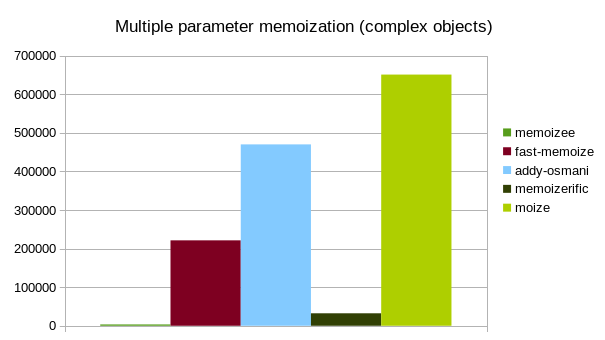
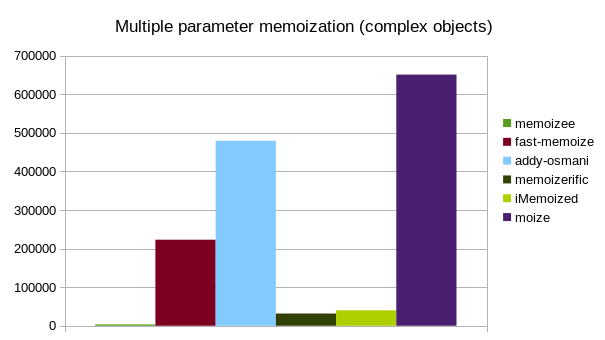
Updates... * Benchmarks to include iMemoized

Changed region(s): [[0.3273, 0.2059, 0.7736, 0.9706], [0.8331, 0.3529, 0.9818, 0.6765], [0.238, 0.7059, 0.2975, 0.9706]]

diff --git a/docs/quicksearch.html b/docs/quicksearch.html
@@ -7,7 +7,7 @@
     <script src="scripts/fulltext-search.js"></script>
 
     <script type="text/x-docstrap-searchdb">
-    {"Map.js.html":{"id":"Map.js.html","title":"Source: Map.js","body":" moize Modules moize Source: Map.js // @flow // utils import { getIndexOf, isKeyLastItem, splice } from './utils'; const HAS_MAP_SUPPORT = typeof Map === 'function'; /** * @private * * @class MapLike * @classdesc class that mimics enough of the Map infrastructure to serve as polyfill for the cache */ class MapLike { constructor() { this.list = []; this.lastItem = undefined; this.size = 0; return this; } lastItem: ?Object; list: Array&lt;any&gt;; size: number; /** * @function delete * @memberOf MapLike * @instance * * @description * remove the key from the map * * @param {*} key key to delete from the map */ delete(key: any) { if (isKeyLastItem(this.lastItem, key)) { this.lastItem = undefined; } const index: number = getIndexOf(this, key); if (index !== -1) { this.size--; splice(this.list, index); } } /** * @function get * @memberOf MapLike * @instance * * @description * get the value for the given key * * @param {*} key key to get the value for * @returns {*} value at the key location */ get(key: any) { if (isKeyLastItem(this.lastItem, key)) { // $FlowIgnore: this.lastItem.value exists return this.lastItem.value; } const index: number = getIndexOf(this, key); if (index !== -1) { this.lastItem = this.list[index]; return this.list[index].value; } return undefined; } /** * @function has * @memberOf MapLike * @instance * * @description * does the map have the key provided * * @param {*} key key to test for in the map * @returns {boolean} does the map have the key */ has(key: any) { if (isKeyLastItem(this.lastItem, key)) { return true; } const index = getIndexOf(this, key); if (index !== -1) { this.lastItem = this.list[index]; return true; } return false; } /** * @function set * @memberOf MapLike * @instance * * @description * set the value at the key location, or add a new item with that key value * * @param {*} key key to assign value of * @param {*} value value to store in the map at key * @returns {MapLike} the map object */ set(key: any, value: any) { if (isKeyLastItem(this.lastItem, key)) { // $FlowIgnore: this.lastItem.value exists this.lastItem.value = value; return this; } const index: number = getIndexOf(this, key); if (index !== -1) { this.lastItem = this.list[index]; this.list[index].value = value; return this; } this.lastItem = { key, value }; this.list.push(this.lastItem); this.size++; return this; } } export {MapLike}; export default HAS_MAP_SUPPORT ? Map : MapLike; × Search results Close Documentation generated by JSDoc 3.4.3 using the DocStrap template. "},"index.js.html":{"id":"index.js.html","title":"Source: index.js","body":" moize Modules moize Source: index.js // @flow // external dependencies import Map from './Map'; // utils import { INFINITY, getCacheKey, getFunctionWithCacheAdded, serializeArguments, setNewCachedValue, setUsageOrder } from './utils'; type Options = { cache?: Object, isPromise?: boolean, maxAge?: number, maxSize?: number, serializer?: Function }; /** * @module moize */ /** * @function moize * * @description * store cached values returned from calling method with arguments to avoid reprocessing data from same arguments * * @example * import moize from 'moize'; * * // standard implementation * const fn = (foo, bar) =&gt; { * return `${foo} ${bar}`; * }; * const memoizedFn = moize(fn); * * // implementation with options * const fn = async (id) =&gt; { * return get(`http://foo.com/${id}`); * }; * const memoizedFn = moize(fn, { * isPromise: true, * maxSize: 5 * }); * * @param {function} fn method to memoize * @param {Options} [options={}] options to customize how the caching is handled * @param {Map} [options.cache=new Map()] caching mechanism to use for method * @param {boolean} [options.isPromise=false] is the function return expected to be a promise to resolve * @param {number} [options.maxAge=Infinity] the maximum age the value should persist in cache * @param {number} [options.maxSize=Infinity] the maximum size of the cache to retain * @param {function} [options.serializer=serializeArguments] method to serialize arguments with for cache storage * @returns {Function} higher-order function which either returns from cache or newly-computed value */ const moize = function(fn: Function, options: Options = {}): any { const { cache = new Map(), isPromise = false, maxAge = INFINITY, maxSize = INFINITY, serializer = serializeArguments } = options; const isMaxAgeFinite: boolean = maxAge !== INFINITY; const isMaxSizeFinite: boolean = maxSize !== INFINITY; let key: string = ''; /** * @private * * @function memoizedFunction * * @description * higher-order function which either returns from cache or stores newly-computed value and returns it * * @param {Array&lt;*&gt;} args arguments passed to method * @returns {any} value resulting from executing of fn passed to memoize */ const memoizedFunction = function(...args: Array&lt;any&gt;): any { key = getCacheKey(args, serializer); if (isMaxSizeFinite) { setUsageOrder(memoizedFunction, key, maxSize); } if (memoizedFunction.cache.has(key)) { return memoizedFunction.cache.get(key); } return setNewCachedValue(memoizedFunction, key, fn.apply(this, args), isPromise, isMaxAgeFinite, maxAge); }; return getFunctionWithCacheAdded(memoizedFunction, cache); }; export default moize; × Search results Close Documentation generated by JSDoc 3.4.3 using the DocStrap template. "},"modules.list.html":{"id":"modules.list.html","title":"Modules","body":" moize Modules moize Modules × Search results Close Documentation generated by JSDoc 3.4.3 using the DocStrap template. "},"index.html":{"id":"index.html","title":"Index","body":" moize Modules moize moize 1.1.2 moize moize strives to be the fastest possible implementation of memoization in JavaScript that supports all arguments passed, while offering flexibility in implementation. It has no dependencies, and is less than 2kb when minified and gzipped. Table of contents Installation Usage Advanced usage Direct cache manipulation Benchmarks Browser support Development Installation $ npm i moize --saveUsage import moize from 'moize'; const method = (a, b) =&gt; { return a + b; }; const memoized = moize(method); memoized(2, 4); // 6 memoized(2, 4); // 6, pulled from cacheAll parameter types are supported, including circular objects, functions, etc. You can even memoize functional React components based on their props + context combination! Advanced usage moize also accepts an object of options as the second parameter. The full shape of these options: { cache: Map|Object, // custom cache implementation isPromise: boolean, // is the result a promise maxAge: number, // amount of time in milliseconds before the cache will expire maxSize: number, // maximum size of cache for this method serializer: Function // method to serialize the arguments to build a unique cache key }cache defaults to new Map() The default cache implementation is highly performant, however if you would like then you can pass in a custom cache implementation. The only requirements for the cache implementation is that it matches the relevant Map API methods: delete get has set If you want to have direct cache management using moize, the following methods must also be provided: clear const cache = { delete(key) { delete this[key]; }, get(key) { return this[key]; }, has(key) { return this.hasOwnProperty[key]; }, set(key, value) { this[key] = value; return this; } }; const fn = (item) =&gt; { return item; }; const memoized = moize(fn, { cache });isPromise defaults to false Is the computed value in the function a Promise, and should we cache the resolved value from that Promise. const fn = async (item) =&gt; { return await item; }; const memoized = moize(fn, { isPromise: true });maxAge defaults to Infinity The maximum amount of time in milliseconds that you want a computed value to be stored in cache for this method. const fn = (item) =&gt; { return item; }; const memoized = moize(fn, { maxAge: 1000 * 60 * 5 // five minutes });maxSize defaults to Infinity The maximum size of the cache you want stored in cache for this method. Clearance of the cache once the maxSize is reached is on a Least Recently Used basis. const fn = (item) =&gt; { return item; }; const memoized = moize(fn, { maxSize: 5 });serializer defaults to serializeArguments in utils.js The default seralizer method is highly performant, and covers a number of edge cases (recursive objects, for example), however if you want to provide a custom one you may. The value returned from the function must be a valid value of keys for a Map. const serializer = (args) =&gt; { return JSON.stringify(args[0]); }; const memoized = moize(fn, { serializer });Direct cache manipulation There are a couple of methods provided on the memoized function which allow for programmatic manipulation of the cache: clear() This will clear all values in the cache, resetting it to a default state. const memoized = moize((item) =&gt; { return item; }); memoized.clear();delete(key) This will delete the provided key from cache. const memoized = moize((item) =&gt; { return item; }); memoized('foo'); memoized.delete('foo');Benchmarks All values provided are the number of operations per second (ops/sec) calculated by the Benchmark suite. Note that underscore, lodash, and ramda do not support mulitple-parameter memoization, so they are not included in those benchmarks. underscore lodash ramda memoizee fast-memoize addy-osmani memoizerific moize 6,173,721 6,964,896 251,801 4,140,779 5,950,556 1,786,883 920,642 10,105,377 memoizee fast-memoize addy-osmani memoizerific moize 3,121,912 247,767 985,573 742,577 3,291,722 memoizee fast-memoize addy-osmani memoizerific moize 3,363 221,302 470,113 32,307 650,998 Browser support Chrome (all versions) Firefox (all versions) Opera 15+ Edge (all versions) IE 9+ Safari 6+ Theoretically the support should go back even farther, these are just the environments that I have tested. Development Standard stuff, clone the repo and npm install dependencies. The npm scripts available: build =&gt; run webpack to build development dist file with NODE_ENV=development build:minifed =&gt; run webpack to build production dist file with NODE_ENV=production dev =&gt; run webpack dev server to run example app (playground!) dist =&gt; runs build and build-minified docs =&gt; builds the docs via jsdoc lint =&gt; run ESLint against all files in the src folder prepublish =&gt; runs compile-for-publish prepublish:compile =&gt; run lint, test, transpile, dist test =&gt; run AVA test functions with NODE_ENV=test test:coverage =&gt; run test but with nyc for coverage checker test:watch =&gt; run test, but with persistent watcher transpile =&gt; run babel against all files in src to create files in lib × Search results Close Documentation generated by JSDoc 3.4.3 using the DocStrap template. "},"module-moize.html":{"id":"module-moize.html","title":"Module: moize","body":" moize Modules moize Module: moize Source: index.js, line 15 Methods &lt;inner&gt; moize(fn [, options]) store cached values returned from calling method with arguments to avoid reprocessing data from same arguments Parameters: Name Type Argument Default Description fn function method to memoize options Options &lt;optional&gt; {} options to customize how the caching is handled Properties Name Type Argument Default Description cache Map &lt;optional&gt; new Map() caching mechanism to use for method isPromise boolean &lt;optional&gt; false is the function return expected to be a promise to resolve maxAge number &lt;optional&gt; Infinity the maximum age the value should persist in cache maxSize number &lt;optional&gt; Infinity the maximum size of the cache to retain serializer function &lt;optional&gt; serializeArguments method to serialize arguments with for cache storage Source: index.js, line 19 Returns: higher-order function which either returns from cache or newly-computed value Type function Example import moize from 'moize'; // standard implementation const fn = (foo, bar) =&gt; { return `${foo} ${bar}`; }; const memoizedFn = moize(fn); // implementation with options const fn = async (id) =&gt; { return get(`http://foo.com/${id}`); }; const memoizedFn = moize(fn, { isPromise: true, maxSize: 5 }); × Search results Close Documentation generated by JSDoc 3.4.3 using the DocStrap template. "}}
+    {"Map.js.html":{"id":"Map.js.html","title":"Source: Map.js","body":" moize Modules moize Source: Map.js // @flow // utils import { getIndexOf, isKeyLastItem, splice } from './utils'; const HAS_MAP_SUPPORT = typeof Map === 'function'; /** * @private * * @class MapLike * @classdesc class that mimics enough of the Map infrastructure to serve as polyfill for the cache */ class MapLike { constructor() { this.list = []; this.lastItem = undefined; this.size = 0; return this; } lastItem: ?Object; list: Array&lt;any&gt;; size: number; /** * @function delete * @memberOf MapLike * @instance * * @description * remove the key from the map * * @param {*} key key to delete from the map */ delete(key: any) { if (isKeyLastItem(this.lastItem, key)) { this.lastItem = undefined; } const index: number = getIndexOf(this, key); if (index !== -1) { this.size--; splice(this.list, index); } } /** * @function get * @memberOf MapLike * @instance * * @description * get the value for the given key * * @param {*} key key to get the value for * @returns {*} value at the key location */ get(key: any) { if (isKeyLastItem(this.lastItem, key)) { // $FlowIgnore: this.lastItem.value exists return this.lastItem.value; } const index: number = getIndexOf(this, key); if (index !== -1) { this.lastItem = this.list[index]; return this.list[index].value; } return undefined; } /** * @function has * @memberOf MapLike * @instance * * @description * does the map have the key provided * * @param {*} key key to test for in the map * @returns {boolean} does the map have the key */ has(key: any) { if (isKeyLastItem(this.lastItem, key)) { return true; } const index = getIndexOf(this, key); if (index !== -1) { this.lastItem = this.list[index]; return true; } return false; } /** * @function set * @memberOf MapLike * @instance * * @description * set the value at the key location, or add a new item with that key value * * @param {*} key key to assign value of * @param {*} value value to store in the map at key * @returns {MapLike} the map object */ set(key: any, value: any) { if (isKeyLastItem(this.lastItem, key)) { // $FlowIgnore: this.lastItem.value exists this.lastItem.value = value; return this; } const index: number = getIndexOf(this, key); if (index !== -1) { this.lastItem = this.list[index]; this.list[index].value = value; return this; } this.lastItem = { key, value }; this.list.push(this.lastItem); this.size++; return this; } } export {MapLike}; export default HAS_MAP_SUPPORT ? Map : MapLike; × Search results Close Documentation generated by JSDoc 3.4.3 using the DocStrap template. "},"index.js.html":{"id":"index.js.html","title":"Source: index.js","body":" moize Modules moize Source: index.js // @flow // external dependencies import Map from './Map'; // utils import { INFINITY, getCacheKey, getFunctionWithCacheAdded, serializeArguments, setNewCachedValue, setUsageOrder } from './utils'; type Options = { cache?: Object, isPromise?: boolean, maxAge?: number, maxSize?: number, serializer?: Function }; /** * @module moize */ /** * @function moize * * @description * store cached values returned from calling method with arguments to avoid reprocessing data from same arguments * * @example * import moize from 'moize'; * * // standard implementation * const fn = (foo, bar) =&gt; { * return `${foo} ${bar}`; * }; * const memoizedFn = moize(fn); * * // implementation with options * const fn = async (id) =&gt; { * return get(`http://foo.com/${id}`); * }; * const memoizedFn = moize(fn, { * isPromise: true, * maxSize: 5 * }); * * @param {function} fn method to memoize * @param {Options} [options={}] options to customize how the caching is handled * @param {Map} [options.cache=new Map()] caching mechanism to use for method * @param {boolean} [options.isPromise=false] is the function return expected to be a promise to resolve * @param {number} [options.maxAge=Infinity] the maximum age the value should persist in cache * @param {number} [options.maxSize=Infinity] the maximum size of the cache to retain * @param {function} [options.serializer=serializeArguments] method to serialize arguments with for cache storage * @returns {Function} higher-order function which either returns from cache or newly-computed value */ const moize = function(fn: Function, options: Options = {}): any { const { cache = new Map(), isPromise = false, maxAge = INFINITY, maxSize = INFINITY, serializer = serializeArguments } = options; const isMaxAgeFinite: boolean = maxAge !== INFINITY; const isMaxSizeFinite: boolean = maxSize !== INFINITY; let key: string = ''; /** * @private * * @function memoizedFunction * * @description * higher-order function which either returns from cache or stores newly-computed value and returns it * * @param {Array&lt;*&gt;} args arguments passed to method * @returns {any} value resulting from executing of fn passed to memoize */ const memoizedFunction = function(...args: Array&lt;any&gt;): any { key = getCacheKey(args, serializer); if (isMaxSizeFinite) { setUsageOrder(memoizedFunction, key, maxSize); } if (memoizedFunction.cache.has(key)) { return memoizedFunction.cache.get(key); } return setNewCachedValue(memoizedFunction, key, fn.apply(this, args), isPromise, isMaxAgeFinite, maxAge); }; return getFunctionWithCacheAdded(memoizedFunction, cache); }; export default moize; × Search results Close Documentation generated by JSDoc 3.4.3 using the DocStrap template. "},"modules.list.html":{"id":"modules.list.html","title":"Modules","body":" moize Modules moize Modules × Search results Close Documentation generated by JSDoc 3.4.3 using the DocStrap template. "},"index.html":{"id":"index.html","title":"Index","body":" moize Modules moize moize 1.1.2 moize moize strives to be the fastest possible implementation of memoization in JavaScript that supports all arguments passed, while offering flexibility in implementation. It has no dependencies, and is less than 2kb when minified and gzipped. Table of contents Installation Usage Advanced usage Direct cache manipulation Benchmarks Browser support Development Installation $ npm i moize --saveUsage import moize from 'moize'; const method = (a, b) =&gt; { return a + b; }; const memoized = moize(method); memoized(2, 4); // 6 memoized(2, 4); // 6, pulled from cacheAll parameter types are supported, including circular objects, functions, etc. You can even memoize functional React components based on their props + context combination! Advanced usage moize also accepts an object of options as the second parameter. The full shape of these options: { cache: Map|Object, // custom cache implementation isPromise: boolean, // is the result a promise maxAge: number, // amount of time in milliseconds before the cache will expire maxSize: number, // maximum size of cache for this method serializer: Function // method to serialize the arguments to build a unique cache key }cache defaults to new Map() The default cache implementation is highly performant, however if you would like then you can pass in a custom cache implementation. The only requirements for the cache implementation is that it matches the relevant Map API methods: delete get has set If you want to have direct cache management using moize, the following methods must also be provided: clear const cache = { delete(key) { delete this[key]; }, get(key) { return this[key]; }, has(key) { return this.hasOwnProperty[key]; }, set(key, value) { this[key] = value; return this; } }; const fn = (item) =&gt; { return item; }; const memoized = moize(fn, { cache });isPromise defaults to false Is the computed value in the function a Promise, and should we cache the resolved value from that Promise. const fn = async (item) =&gt; { return await item; }; const memoized = moize(fn, { isPromise: true });maxAge defaults to Infinity The maximum amount of time in milliseconds that you want a computed value to be stored in cache for this method. const fn = (item) =&gt; { return item; }; const memoized = moize(fn, { maxAge: 1000 * 60 * 5 // five minutes });maxSize defaults to Infinity The maximum size of the cache you want stored in cache for this method. Clearance of the cache once the maxSize is reached is on a Least Recently Used basis. const fn = (item) =&gt; { return item; }; const memoized = moize(fn, { maxSize: 5 });serializer defaults to serializeArguments in utils.js The default seralizer method is highly performant, and covers a number of edge cases (recursive objects, for example), however if you want to provide a custom one you may. The value returned from the function must be a valid value of keys for a Map. const serializer = (args) =&gt; { return JSON.stringify(args[0]); }; const memoized = moize(fn, { serializer });Direct cache manipulation There are a couple of methods provided on the memoized function which allow for programmatic manipulation of the cache: clear() This will clear all values in the cache, resetting it to a default state. const memoized = moize((item) =&gt; { return item; }); memoized.clear();delete(key) This will delete the provided key from cache. const memoized = moize((item) =&gt; { return item; }); memoized('foo'); memoized.delete('foo');Benchmarks All values provided are the number of operations per second (ops/sec) calculated by the Benchmark suite. Note that underscore, lodash, and ramda do not support mulitple-parameter memoization, so they are not included in those benchmarks. underscore lodash ramda memoizee fast-memoize addy-osmani memoizerific iMemoized moize 5,998,566 6,402,406 242,619 4,405,116 6,344,116 1,945,595 1,125,026 11,704,638 10,037573 memoizee fast-memoize addy-osmani memoizerific iMemoized moize 3,088,475 274,799 1,042,220 747,047 3,094,359 3,251,022 memoizee fast-memoize addy-osmani memoizerific iMemoized moize 3,475 222,977 479,436 31,704 40,044 650,998 Browser support Chrome (all versions) Firefox (all versions) Opera 15+ Edge (all versions) IE 9+ Safari 6+ Theoretically the support should go back even farther, these are just the environments that I have tested. Development Standard stuff, clone the repo and npm install dependencies. The npm scripts available: build =&gt; run webpack to build development dist file with NODE_ENV=development build:minifed =&gt; run webpack to build production dist file with NODE_ENV=production dev =&gt; run webpack dev server to run example app (playground!) dist =&gt; runs build and build-minified docs =&gt; builds the docs via jsdoc lint =&gt; run ESLint against all files in the src folder prepublish =&gt; runs compile-for-publish prepublish:compile =&gt; run lint, test, transpile, dist test =&gt; run AVA test functions with NODE_ENV=test test:coverage =&gt; run test but with nyc for coverage checker test:watch =&gt; run test, but with persistent watcher transpile =&gt; run babel against all files in src to create files in lib × Search results Close Documentation generated by JSDoc 3.4.3 using the DocStrap template. "},"module-moize.html":{"id":"module-moize.html","title":"Module: moize","body":" moize Modules moize Module: moize Source: index.js, line 15 Methods &lt;inner&gt; moize(fn [, options]) store cached values returned from calling method with arguments to avoid reprocessing data from same arguments Parameters: Name Type Argument Default Description fn function method to memoize options Options &lt;optional&gt; {} options to customize how the caching is handled Properties Name Type Argument Default Description cache Map &lt;optional&gt; new Map() caching mechanism to use for method isPromise boolean &lt;optional&gt; false is the function return expected to be a promise to resolve maxAge number &lt;optional&gt; Infinity the maximum age the value should persist in cache maxSize number &lt;optional&gt; Infinity the maximum size of the cache to retain serializer function &lt;optional&gt; serializeArguments method to serialize arguments with for cache storage Source: index.js, line 19 Returns: higher-order function which either returns from cache or newly-computed value Type function Example import moize from 'moize'; // standard implementation const fn = (foo, bar) =&gt; { return `${foo} ${bar}`; }; const memoizedFn = moize(fn); // implementation with options const fn = async (id) =&gt; { return get(`http://foo.com/${id}`); }; const memoizedFn = moize(fn, { isPromise: true, maxSize: 5 }); × Search results Close Documentation generated by JSDoc 3.4.3 using the DocStrap template. "}}
     </script>
 
     <script type="text/javascript">

diff --git a/benchmark/index.js b/benchmark/index.js
@@ -18,6 +18,7 @@ const memoizee = require('memoizee');
 const fastMemoize = require('fast-memoize');
 const addyOsmani = require('./addy-osmani');
 const memoizerific = require('memoizerific');
+const imemoized = require('iMemoized').memoize;
 const moize = require('../lib');
 
 const fibonacci = (number) => {
@@ -61,6 +62,7 @@ const runSingleParameterSuite = () => {
   const mFastMemoize = fastMemoize(fibonacci);
   const mAddyOsmani = addyOsmani(fibonacci);
   const mMemoizerific = memoizerific(Infinity)(fibonacci);
+  const mImemoized = imemoized(fibonacci);
   const mFutz = moize(fibonacci);
 
   return new Promise((resolve) => {
@@ -85,6 +87,9 @@ const runSingleParameterSuite = () => {
       })
       .add('memoizerific', () => {
         mMemoizerific(fibonacciNumber);
+      })
+      .add('iMemoized', () => {
+        mImemoized(fibonacciNumber);
       })
       .add('moize', () => {
         mFutz(fibonacciNumber);
@@ -116,6 +121,7 @@ const runMultiplePrimitiveSuite = () => {
   const mFastMemoize = fastMemoize(fibonacciMultiplePrimitive);
   const mAddyOsmani = addyOsmani(fibonacciMultiplePrimitive);
   const mMemoizerific = memoizerific(Infinity)(fibonacciMultiplePrimitive);
+  const mImemoized = imemoized(fibonacciMultiplePrimitive);
   const mFutz = moize(fibonacciMultiplePrimitive);
 
   return new Promise((resolve) => {
@@ -131,6 +137,9 @@ const runMultiplePrimitiveSuite = () => {
       })
       .add('memoizerific', () => {
         mMemoizerific(fibonacciNumber, false);
+      })
+      .add('iMemoized', () => {
+        mImemoized(fibonacciNumber, false);
       })
       .add('moize', () => {
         mFutz(fibonacciNumber, false);
@@ -162,6 +171,7 @@ const runMultipleObjectSuite = () => {
   const mFastMemoize = fastMemoize(fibonacciMultipleObject);
   const mAddyOsmani = addyOsmani(fibonacciMultipleObject);
   const mMemoizerific = memoizerific(Infinity)(fibonacciMultipleObject);
+  const mImemoized = imemoized(fibonacciMultipleObject);
   const mFutz = moize(fibonacciMultipleObject);
 
   return new Promise((resolve) => {
@@ -183,6 +193,11 @@ const runMultipleObjectSuite = () => {
       })
       .add('memoizerific', () => {
         mMemoizerific(fibonacciNumber, {
+          isComplete: false
+        });
+      })
+      .add('iMemoized', () => {
+        mImemoized(fibonacciNumber, {
           isComplete: false
         });
       })

diff --git a/docs/index.html b/docs/index.html
@@ -218,19 +218,21 @@ memoized.delete('foo');</code></pre><h3 id="benchmarks">Benchmarks</h3>
 <th>fast-memoize</th>
 <th>addy-osmani</th>
 <th>memoizerific</th>
+<th>iMemoized</th>
 <th>moize</th>
 </tr>
 </thead>
 <tbody>
 <tr>
-<td>6,173,721</td>
-<td>6,964,896</td>
-<td>251,801</td>
-<td>4,140,779</td>
-<td>5,950,556</td>
-<td>1,786,883</td>
-<td>920,642</td>
-<td>10,105,377</td>
+<td>5,998,566</td>
+<td>6,402,406</td>
+<td>242,619</td>
+<td>4,405,116</td>
+<td>6,344,116</td>
+<td>1,945,595</td>
+<td>1,125,026</td>
+<td>11,704,638</td>
+<td>10,037573</td>
 </tr>
 </tbody>
 </table>
@@ -242,16 +244,18 @@ memoized.delete('foo');</code></pre><h3 id="benchmarks">Benchmarks</h3>
 <th>fast-memoize</th>
 <th>addy-osmani</th>
 <th>memoizerific</th>
+<th>iMemoized</th>
 <th>moize</th>
 </tr>
 </thead>
 <tbody>
 <tr>
-<td>3,121,912</td>
-<td>247,767</td>
-<td>985,573</td>
-<td>742,577</td>
-<td>3,291,722</td>
+<td>3,088,475</td>
+<td>274,799</td>
+<td>1,042,220</td>
+<td>747,047</td>
+<td>3,094,359</td>
+<td>3,251,022</td>
 </tr>
 </tbody>
 </table>
@@ -263,15 +267,17 @@ memoized.delete('foo');</code></pre><h3 id="benchmarks">Benchmarks</h3>
 <th>fast-memoize</th>
 <th>addy-osmani</th>
 <th>memoizerific</th>
+<th>iMemoized</th>
 <th>moize</th>
 </tr>
 </thead>
 <tbody>
 <tr>
-<td>3,363</td>
-<td>221,302</td>
-<td>470,113</td>
-<td>32,307</td>
+<td>3,475</td>
+<td>222,977</td>
+<td>479,436</td>
+<td>31,704</td>
+<td>40,044</td>
 <td>650,998</td>
 </tr>
 </tbody>

diff --git a/README.md b/README.md
@@ -181,21 +181,21 @@ All values provided are the number of operations per second (ops/sec) calculated
 
 ![Single parameter image](img/single-parameter.png)
 
-| underscore | lodash    | ramda   | memoizee  | fast-memoize | addy-osmani | memoizerific | moize      |
-|------------|-----------|---------|-----------|--------------|-------------|--------------|------------|
-| 6,173,721  | 6,964,896 | 251,801 | 4,140,779 | 5,950,556    | 1,786,883   | 920,642      | 10,105,377 |
+| underscore | lodash    | ramda   | memoizee  | fast-memoize | addy-osmani | memoizerific | iMemoized    | moize      |
+|------------|-----------|---------|-----------|--------------|-------------|--------------|--------------|------------|
+| 5,998,566  | 6,402,406 | 242,619 | 4,405,116 | 6,344,116    | 1,945,595   | 1,125,026    | 11,704,638   | 10,037573  |
 
 ![Multiple primitive parameters image](img/multiple-parameter-primitives.png)
 
-| memoizee  | fast-memoize | addy-osmani | memoizerific | moize     |
-|-----------|--------------|-------------|--------------|-----------|
-| 3,121,912 | 247,767      | 985,573     | 742,577      | 3,291,722 |
+| memoizee  | fast-memoize | addy-osmani | memoizerific | iMemoized    | moize     |
+|-----------|--------------|-------------|--------------|--------------|-----------|
+| 3,088,475 | 274,799      | 1,042,220   | 747,047      | 3,094,359    | 3,251,022 |
 
 ![Multiple complex parameters image](img/multiple-parameter-complex.png)
 
-| memoizee | fast-memoize | addy-osmani | memoizerific | moize   |
-|----------|--------------|-------------|--------------|---------|
-| 3,363    | 221,302      | 470,113     | 32,307       | 650,998 |
+| memoizee | fast-memoize | addy-osmani | memoizerific | iMemoized | moize   |
+|----------|--------------|-------------|--------------|-----------|---------|
+| 3,475    | 222,977      | 479,436     | 31,704       | 40,044    | 650,998 |
 
 ### Browser support
 
